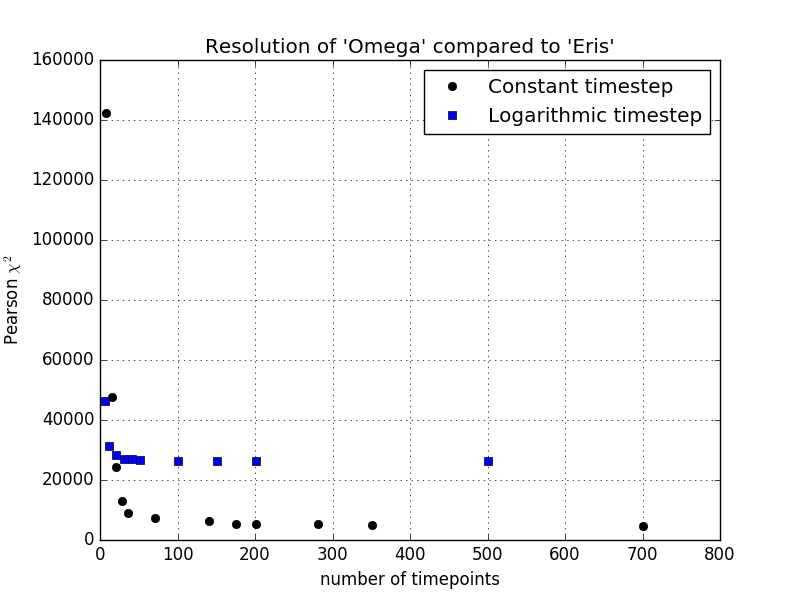
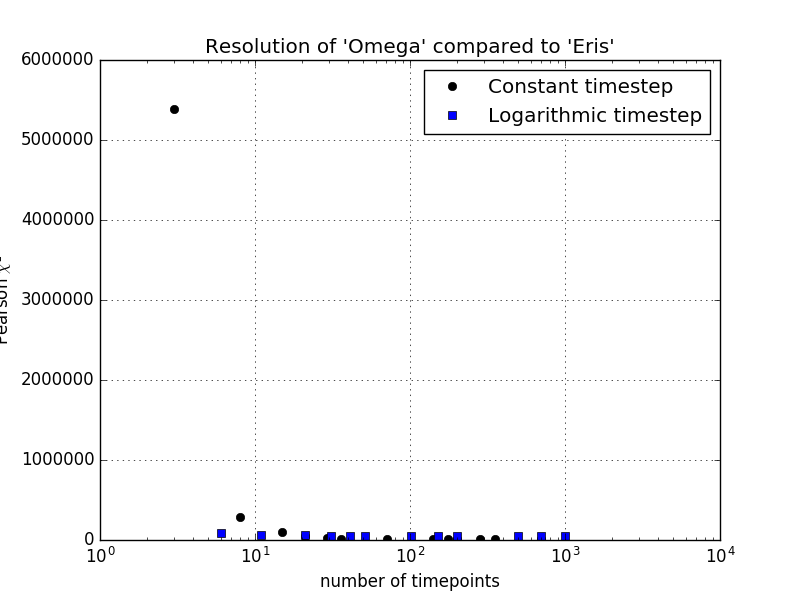
update results

diff --git a/bestfit_param_omega/resolution_analysis/resolutiontable_constant.tex b/bestfit_param_omega/resolution_analysis/resolutiontable_constant.tex
@@ -4,17 +4,18 @@
 \label{tab:omega-timestep}
 \begin{tabular}{cccc}
 dt & pearson_chi2 & astro_chi2 & relative_chi2 & time-points & calculation-time \ 
-20000000.0 & 4801.62441579 & 15399.5132523 & 15.3687757009 & 701 & 1751.43463 \ 
-40000000.0 & 4895.64875624 & 15712.5989582 & 15.6812364852 & 351 & 420.535813 \ 
-50000000.0 & 5375.11697112 & 17275.3407241 & 17.2408590061 & 281 & 267.636806 \ 
-70000000.0 & 5428.00355904 & 17609.6187393 & 17.5744697997 & 201 & 139.751446 \ 
-80000000.0 & 5252.86814465 & 16429.6111859 & 16.3968175508 & 176 & 108.179558 \ 
-100000000.0 & 6471.31500339 & 20543.5568402 & 20.5025517367 & 141 & 72.307863 \ 
-200000000.0 & 7306.06533163 & 22265.3390385 & 22.220897244 & 71 & 22.909224 \ 
-400000000.0 & 9007.3773248 & 25906.1889512 & 25.8544799912 & 36 & 9.102661 \ 
-500000000.0 & 12855.760413 & 32954.6104028 & 32.8888327373 & 29 & 7.150286 \ 
-700000000.0 & 24399.7291138 & 47504.7902502 & 47.4099703095 & 21 & 5.377864 \ 
-1000000000.0 & 47520.6241626 & 69543.4915551 & 69.4046821907 & 15 & 4.351775 \ 
-2000000000.0 & 142254.266672 & 144776.098447 & 144.487124198 & 8 & 3.270389 \ 
+1000000000 & 95105.3780737 & 138718.948799 & 69.2901842152 & 15 & 4.28852 \ 
+2000000000 & 284528.123437 & 289105.582602 & 144.408382918 & 8 & 3.278848 \ 
+7000000000 & 5389263.38859 & 1078368.2227 & 538.645465885 & 3 & 2.742653 \ 
+100000000 & 13036.3560518 & 40777.2718985 & 20.3682676816 & 141 & 71.956115 \ 
+200000000 & 14747.5331433 & 44212.8744547 & 22.0843528745 & 71 & 22.610226 \ 
+400000000 & 18114.5314436 & 51487.3971729 & 25.7179806059 & 36 & 9.113087 \ 
+500000000 & 25770.5339697 & 65573.7371372 & 32.7541144541 & 29 & 7.149907 \ 
+700000000 & 48982.7539489 & 94657.7318298 & 47.2815843306 & 21 & 5.364475 \ 
+20000000 & 9701.36360401 & 30435.1407081 & 15.202367986 & 701 & 1780.71397 \ 
+40000000 & 9892.32400061 & 31076.647114 & 15.5228007563 & 351 & 439.485309 \ 
+50000000 & 10838.8603478 & 34188.617236 & 17.0772313866 & 281 & 281.900739 \ 
+70000000 & 10932.7809171 & 34871.6299439 & 17.4183965754 & 201 & 144.191232 \ 
+80000000 & 10639.1166006 & 32523.1119065 & 16.2453106426 & 176 & 109.674093 \ 
 \end{tabular}
 \end{table}

diff --git a/bestfit_param_omega/resolution_analysis/resolutiontable_special.tex b/bestfit_param_omega/resolution_analysis/resolutiontable_special.tex
@@ -4,15 +4,17 @@
 \label{tab:omega-timestep}
 \begin{tabular}{cccc}
 n & pearson_chi2 & astro_chi2 & relative_chi2 & time-points & calculation-time \ 
-5 & 46334.6756031 & 68331.9426423 & 68.1955515392 & 6 & 3.091419 \ 
-10 & 31476.8403712 & 57135.4496395 & 57.0214068258 & 11 & 3.765996 \ 
-20 & 28413.0354597 & 53503.6467828 & 53.3968530766 & 21 & 5.389326 \ 
-30 & 27057.4372146 & 52483.4407616 & 52.3786833948 & 31 & 7.805491 \ 
-40 & 26910.3251884 & 52001.6795446 & 51.8978837771 & 41 & 10.764661 \ 
-50 & 26783.3153841 & 51722.6198356 & 51.6193810735 & 51 & 14.308202 \ 
-100 & 26405.383768 & 51193.8642249 & 51.0916808632 & 101 & 41.880186 \ 
-150 & 26306.1319431 & 51012.2409561 & 50.9104201159 & 151 & 85.86891 \ 
-200 & 26277.6450927 & 50914.6894297 & 50.8130633031 & 201 & 146.740621 \ 
-500 & 26453.8829435 & 51110.6177668 & 51.0086005656 & 501 & 928.735342 \ 
+5 & 92816.6995838 & 136297.163919 & 68.080501458 & 6 & 3.052683 \ 
+10 & 62907.1601545 & 113918.887155 & 56.9025410363 & 11 & 3.644123 \ 
+20 & 56972.8828286 & 106667.730342 & 53.2805845867 & 21 & 5.35829 \ 
+30 & 54142.9265734 & 104636.571162 & 52.2660195616 & 31 & 7.682539 \ 
+40 & 53933.479896 & 103680.333803 & 51.788378523 & 41 & 10.6445 \ 
+50 & 53713.7279537 & 103131.036619 & 51.5140043052 & 51 & 14.248217 \ 
+100 & 53011.0517756 & 102111.220162 & 51.0046054758 & 101 & 43.557527 \ 
+150 & 52848.7431654 & 101777.577724 & 50.8379509112 & 151 & 89.2156 \ 
+200 & 52840.7315059 & 101620.206266 & 50.7593437893 & 201 & 155.385532 \ 
+500 & 53032.1335146 & 101814.825663 & 50.8565562754 & 501 & 968.965321 \ 
+700 & 53431.7709412 & 102253.85848 & 51.0758533864 & 701 & 1877.133598 \ 
+1000 & 53443.0171407 & 102255.486334 & 51.0766665003 & 1001 & 4030.151148 \ 
 \end{tabular}
 \end{table}
